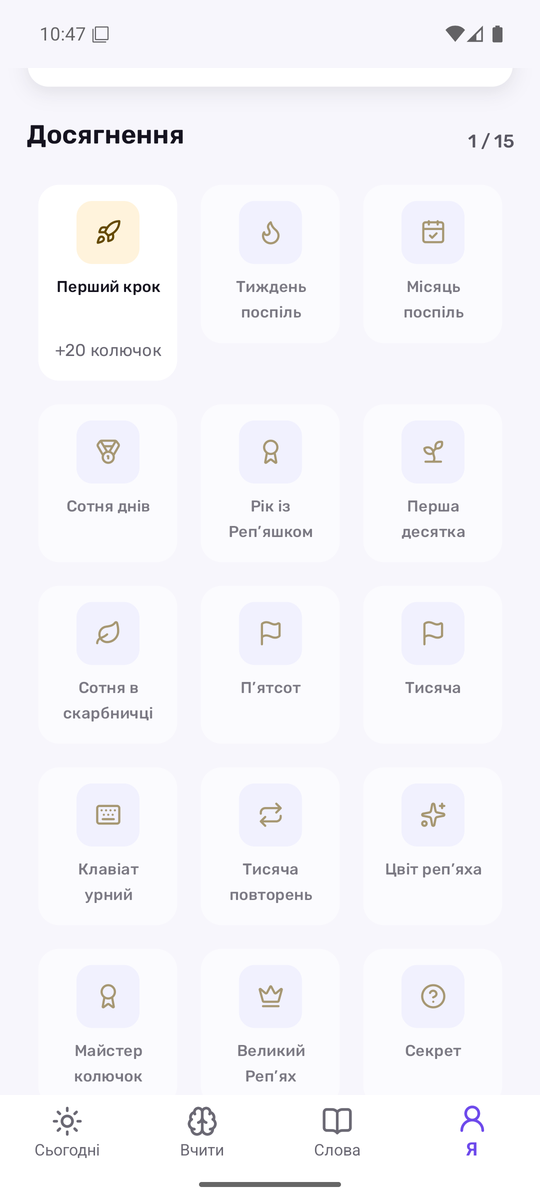
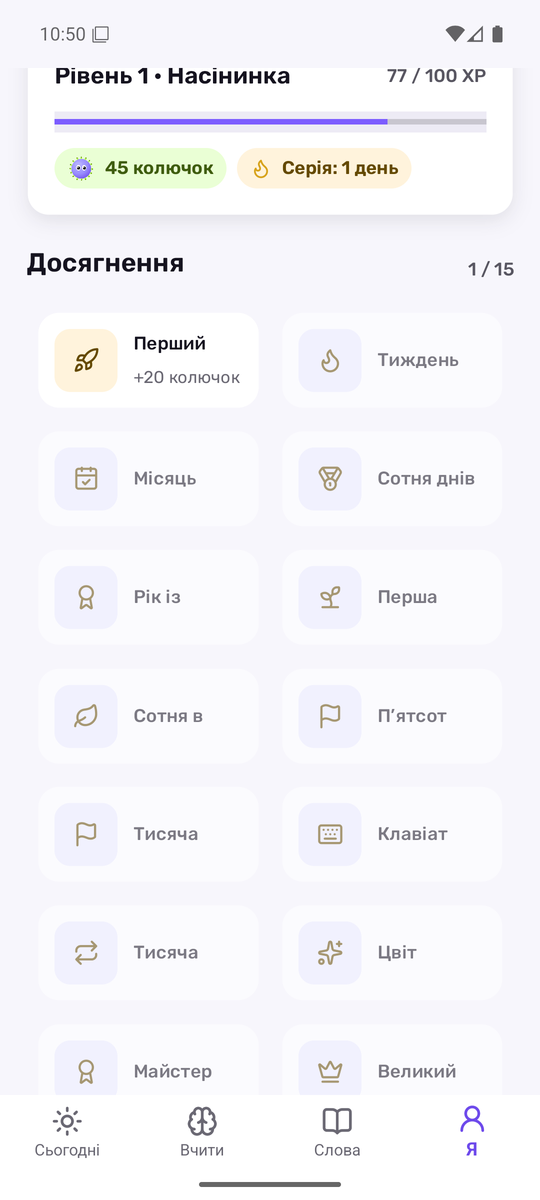
fix(me): achievements as two-column rows so long titles wrap instead of breaking

diff --git a/src/mobile/Burdock.Presentation/Views/MePage.xaml b/src/mobile/Burdock.Presentation/Views/MePage.xaml
@@ -61,14 +61,14 @@
                 <FlexLayout Wrap="Wrap" Direction="Row" JustifyContent="Start" AlignItems="Start" BindableLayout.ItemsSource="{Binding Achievements}">
                     <BindableLayout.ItemTemplate>
                         <DataTemplate x:DataType="vm:AchievementTile">
-                            <Border Style="{StaticResource AchievementTile}" FlexLayout.Basis="33.33%" SemanticProperties.Description="{Binding Title}" SemanticProperties.Hint="{Binding Body}">
+                            <Border Style="{StaticResource AchievementTile}" FlexLayout.Basis="50%" SemanticProperties.Description="{Binding Title}" SemanticProperties.Hint="{Binding Body}">
                                 <Border.Triggers>
                                     <DataTrigger TargetType="Border" Binding="{Binding Unlocked}" Value="False">
                                         <Setter Property="Opacity" Value="{StaticResource OpacityMuted}" />
                                     </DataTrigger>
                                 </Border.Triggers>
-                                <VerticalStackLayout Spacing="{StaticResource Space2}" HorizontalOptions="Fill">
-                                    <Border Style="{StaticResource IconWell}" HorizontalOptions="Center">
+                                <Grid ColumnDefinitions="Auto,*" ColumnSpacing="{StaticResource Space3}">
+                                    <Border Grid.Column="0" Style="{StaticResource IconWell}" VerticalOptions="Start">
                                         <Border.Triggers>
                                             <DataTrigger TargetType="Border" Binding="{Binding Unlocked}" Value="True">
                                                 <Setter Property="BackgroundColor" Value="{AppThemeBinding Light={StaticResource ColorRewardGoldContainerLight}, Dark={StaticResource ColorRewardGoldContainerDark}}" />
@@ -77,9 +77,11 @@
                                         <Label Text="{Binding Glyph}" Style="{StaticResource IconGlyph}"
                                                TextColor="{AppThemeBinding Light={StaticResource ColorRewardGoldTextLight}, Dark={StaticResource ColorRewardGoldTextDark}}" />
                                     </Border>
-                                    <Label Text="{Binding Title}" Style="{StaticResource TypeLabelSm}" HorizontalOptions="Fill" HorizontalTextAlignment="Center" VerticalTextAlignment="Start" LineBreakMode="WordWrap" MaxLines="2" HeightRequest="{StaticResource Space8}" />
-                                    <Label Text="{Binding Reward}" Style="{StaticResource TextTertiary}" HorizontalOptions="Fill" HorizontalTextAlignment="Center" IsVisible="{Binding Unlocked}" />
-                                </VerticalStackLayout>
+                                    <VerticalStackLayout Grid.Column="1" Spacing="{StaticResource Space1}" VerticalOptions="Center">
+                                        <Label Text="{Binding Title}" Style="{StaticResource TypeLabelMd}" LineBreakMode="WordWrap" MaxLines="2" />
+                                        <Label Text="{Binding Reward}" Style="{StaticResource TextTertiary}" IsVisible="{Binding Unlocked}" />
+                                    </VerticalStackLayout>
+                                </Grid>
                             </Border>
                         </DataTemplate>
                     </BindableLayout.ItemTemplate>
